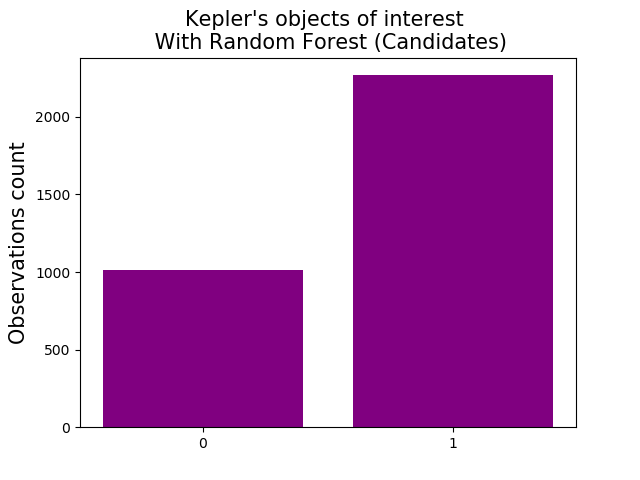
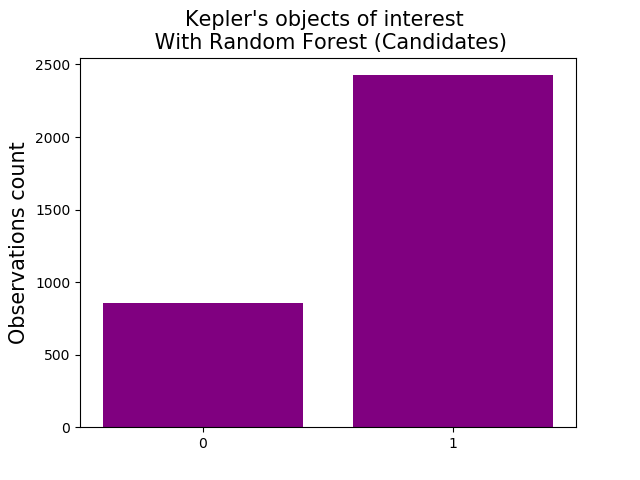
Updates

diff --git a/Project3/RandomForest.py b/Project3/RandomForest.py
@@ -15,19 +15,13 @@ from sklearn.model_selection import train_test_split, GridSearchCV
 from sklearn.ensemble 		 import RandomForestClassifier
 #------------------------------------------------------------------------------
 
-
 def Best_params(seed, X_train, y_train):
 
-	param_test = {"n_estimators": 	  [200, 300, 400, 500],
-				  "max_features": 	  [None, 'auto', 'log2'],
-				  "max_depth": 	 	  [7, 8, 9],
-				  "min_samples_leaf": [1, 2, 5, 10]}
-	'''
 	param_test = {"n_estimators": 	  [200, 300, 400, 500],
 				  "max_features": 	  ['auto', 'log2'],
 				  "max_depth": 	 	  [7, 8, 9, None],
 				  "min_samples_leaf": [1, 2, 3, 4]}
-	'''
+
 	# {'max_depth': 8, 'max_features': 'auto', 'min_samples_leaf': 1, 'n_estimators': 300}
 
 	gsearch = GridSearchCV(RandomForestClassifier(), param_grid = param_test, cv=5)
@@ -48,7 +42,8 @@ def Random_Forest(X_train, X_test, y_train, y_test, candidates, GoldiLock,	\
 	"""
 	print("Exoplanet threshold = %g" % threshold)
 
-	Best_params(seed, X_train, y_train)
+	# Print best parameters, this takes time! Parameters set in Best_params()
+	#Best_params(seed, X_train, y_train)
 
 	# Plot error against number of trees?
 
@@ -76,14 +71,14 @@ def Random_Forest(X_train, X_test, y_train, y_test, candidates, GoldiLock,	\
 	# plotting a feature importance dataframe (horizontal barchart)
 	def feature_importance_plot(feature_importances, title):
 		feature_importances.columns = ['feature', 'feature_importance']
-		sns.barplot(x = 'feature_importance', y = 'feature', data = feature_importances, orient = 'h', color = 'royalblue') \
+		sns.barplot(x = 'feature_importance', y = 'feature', data = feature_importances, orient = 'h') \
 		.set_title(title, fontsize = 15)
-		plt.ylabel('feature', fontsize=15)
-		plt.xlabel('feature importance', fontsize=15)
+		plt.ylabel('Feature', fontsize=15)
+		plt.xlabel('Feature importance', fontsize=15)
 		plt.show()
 
 	feature_imp = feature_importance(header_names[1:], RF.feature_importances_)
-	feature_importance_plot(feature_imp[:11], "Feature Importance")
+	feature_importance_plot(feature_imp[:11], "Feature Importance (Random Forest)")
 
 	# Calculating different metrics
 	predict     = RF.predict(X_test)
@@ -100,6 +95,7 @@ def Random_Forest(X_train, X_test, y_train, y_test, candidates, GoldiLock,	\
 
 	if plot_confuse_matrix == True:
 		skplt.metrics.plot_confusion_matrix(y_test, predict)
+		plt.savefig('ConfusionMatrix/CM_RF.png')
 		plt.show()
 
 	#print(RF.decision_path(X_test))
@@ -130,12 +126,10 @@ def Random_Forest(X_train, X_test, y_train, y_test, candidates, GoldiLock,	\
 	print('%-5g exoplanets      of %g candidates'  %(predicted_exoplanets, len(predict_candidates)))
 	print('%-5g false positives of %g candidates'  %(predicted_false_positive, len(predict_candidates)))
 
-	if plot_confuse_matrix == True:
-		# Plotting a bar plot of candidates predicted as confirmed and false positives
-		# Need to fix input title, labels etc maybe?
-		func.Histogram2(predict_candidates, 'Random Forest (Candidates)')
+	# Plotting a bar plot of candidates predicted as confirmed and false positives
+	func.Histogram2(predict_candidates, 'Random Forest (Candidates)')
 
-		# func.Histogram2(g=df.loc[:, (df.columns == 'koi_disposition')].values)
+	#func.Histogram2(g=df.loc[:, (df.columns == 'koi_disposition')].values)
 
 	if Goldilock_zone:
 

diff --git a/Project3/Logistic_reg.py b/Project3/Logistic_reg.py
@@ -1,16 +1,21 @@
 """
 FYS-STK4155 - Project 3: Logistic regression
 """
-import numpy 			 	as np
-import functions 			as func
-import goldilock            as GL
+import os
+import numpy 				 as np
+import matplotlib.pyplot	 as plt
+import scikitplot        	 as skplt
+import seaborn               as sns
+import pandas 				 as pd
+import functions 			 as func
+import goldilock             as GL
 
-from random 				import random, seed
-from sklearn.metrics 		import classification_report, f1_score,		\
-								   precision_score, recall_score,       \
-                                   accuracy_score, mean_squared_error,  \
-                                   confusion_matrix
-from sklearn.linear_model 	import LogisticRegression
+from random 				 import random, seed
+from sklearn.metrics 		 import classification_report, f1_score,		\
+								    precision_score, recall_score,       \
+                                    accuracy_score, mean_squared_error,  \
+                                    confusion_matrix
+from sklearn.linear_model 	 import LogisticRegression
 from sklearn.model_selection import GridSearchCV
 #------------------------------------------------------------------------------
 
@@ -28,11 +33,10 @@ def Best_params(seed, X_train, y_train):
 def LogReg(X_train, X_test, y_train, y_test, candidates, GoldiLock, seed, Goldilock_zone=False, plot_confuse_matrix=False,
 			threshold=0.5):
 
-	#find best parameters
-	Best_params(seed, X_train, y_train)
 	print("Exoplanet threshold = %g" % threshold)
 
-
+	# Find best parameters
+	#Best_params(seed, X_train, y_train)
 
 	# Make Logistic regression analysis
 	logreg = LogisticRegression(solver='liblinear', max_iter = 100, random_state=seed)
@@ -50,7 +54,11 @@ def LogReg(X_train, X_test, y_train, y_test, candidates, GoldiLock, seed, Goldil
 	# Printing the different metrics:
 	func.Print_parameters(accuracy, F1_score, precision, recall, errors, name='Logistic regression')
 
-	print(confusion_matrix(y_test, y_pred))
+	if plot_confuse_matrix == True:
+		skplt.metrics.plot_confusion_matrix(y_test, y_pred)
+		plt.savefig('ConfusionMatrix/CM_LOG.png')
+		plt.show()
+
 	"""
 	pred_cand  = np.array(logreg.predict(candidates)) 	# Predict candidates
 
@@ -74,10 +82,8 @@ def LogReg(X_train, X_test, y_train, y_test, candidates, GoldiLock, seed, Goldil
 	print('%-5g exoplanets      of %g candidates'  %(pred_Conf, len(pred_cand)))
 	print('%-5g false positives of %g candidates'  %(pred_FP, len(pred_cand)))
 
-	if plot_confuse_matrix == True:
-		# Plotting a bar plot of candidates predicted as confirmed and false positives
-		# Need to fix input title, labels etc maybe?
-		func.Histogram2(pred_cand, 'Logistic regression (Candidates)')
+	# Plotting a bar plot of candidates predicted as confirmed and false positives
+	func.Histogram2(pred_cand, 'Logistic regression (Candidates)')
 
 	# Make AUC curve?
 

diff --git a/Project3/NeuralNetwork.py b/Project3/NeuralNetwork.py
@@ -69,8 +69,11 @@ def NeuralNetwork(X_train, X_test, y_train, y_test, candidates, GoldiLock, seed,
 	# Printing the different metrics:
 	func.Print_parameters(accuracy, F1_score, precision, recall, errors, name='Neural Network classification')
 
-
-	print(confusion_matrix(y_test, predict))
+	if plot_confuse_matrix == True:
+		#print(confusion_matrix(y_test, predict))
+		skplt.metrics.plot_confusion_matrix(y_test, predict)
+		plt.savefig('ConfusionMatrix/CM_NN.png')
+		plt.show()
 
 	predict_candidates       = np.array(trained_model.predict(candidates))
 
@@ -83,6 +86,8 @@ def NeuralNetwork(X_train, X_test, y_train, y_test, candidates, GoldiLock, seed,
 	print('%-5g exoplanets      of %g candidates'  %(predicted_exoplanets, len(predict_candidates)))
 	print('%-5g false positives of %g candidates'  %(predicted_false_positive, len(predict_candidates)))
 
+	# Plotting a bar plot of candidates predicted as confirmed and false positives
+	func.Histogram2(predict_candidates, 'Neural Network (Candidates)')
 
 	if Goldilock_zone:
 
